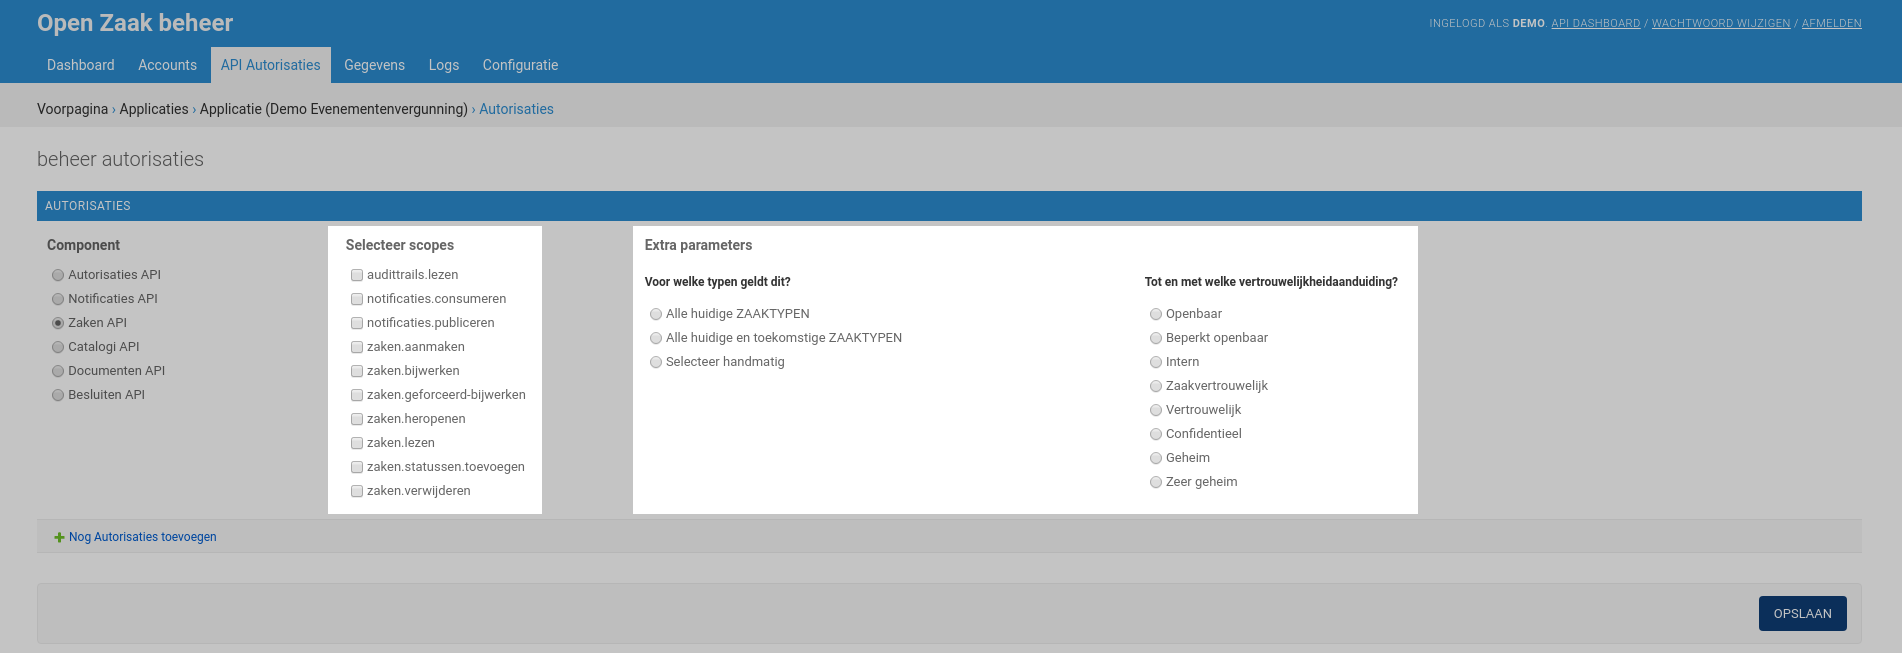
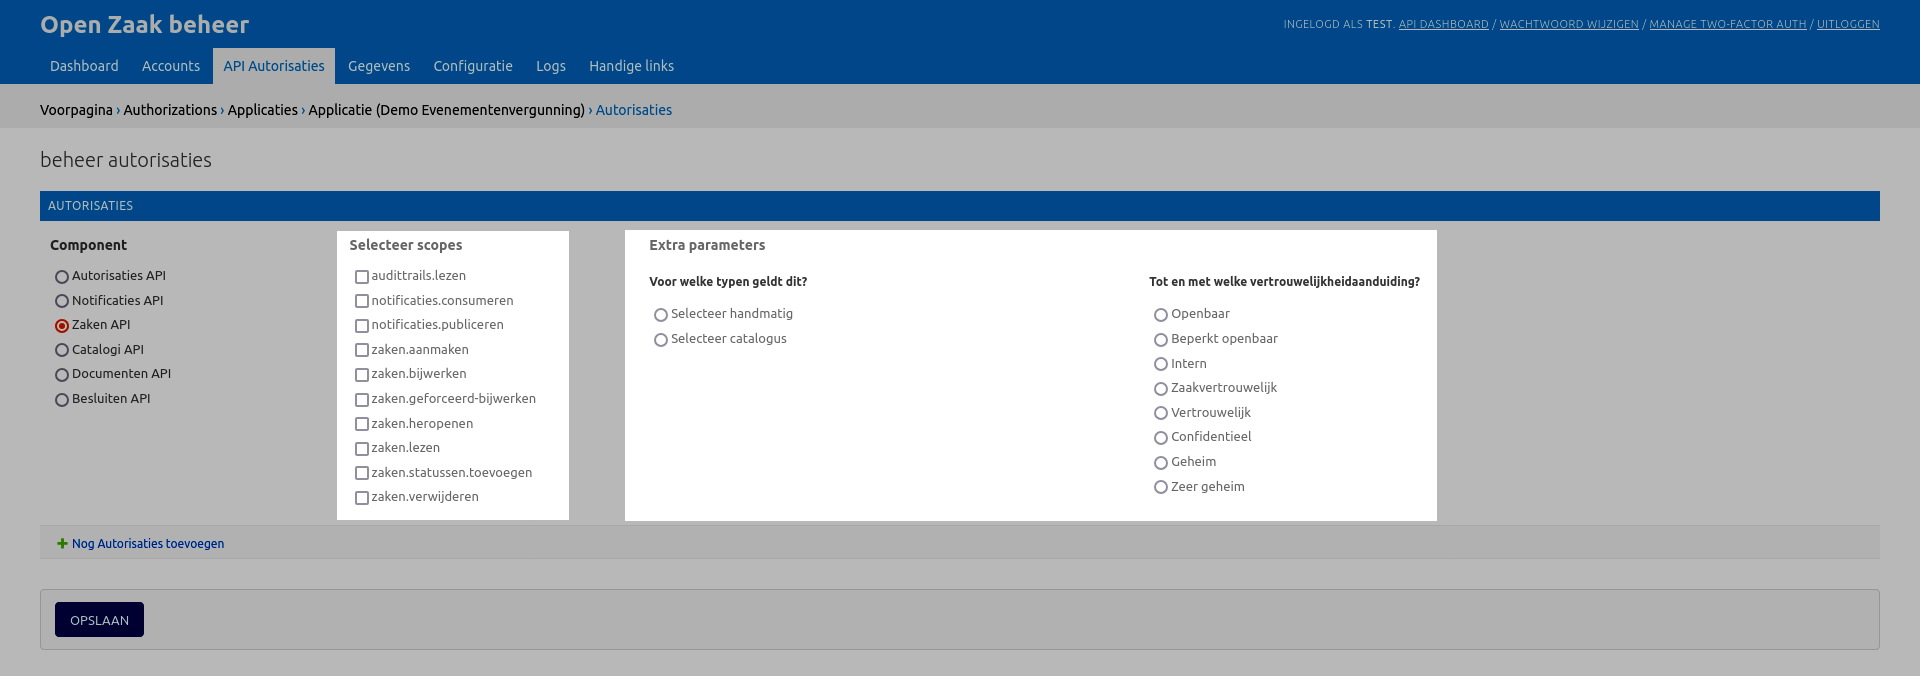
:memo: [#1742] Describe catalogus autorisaties in docs

diff --git a/docs/manual/api-authorizations.rst b/docs/manual/api-authorizations.rst
@@ -110,20 +110,24 @@ Keuze relevante typen
 Voor de *Zaken API*, *Documenten API* en *Besluiten API* worden de autorisaties
 ingericht per *type* - Zaaktype, Informatieobjecttype en Besluittype respectievelijk.
 
-De type-selectie heeft drie mogelijke opties:
-
-Alle huidige \*typen:
-    Dit selecteert alle huidige typen, ook de typen die nog niet gepubliceerd zijn. Voor
-    de *Zaken API* gelden de autorisaties dan voor alle zaaktypen uit alle catalogi in
-    Open Zaak.
-
-Alle huidige en toekomstige \*typen:
-    Dit is dezelfde situatie als ``Alle huidige *typen``, met het verschil dat \*typen
-    die aangemaakt worden *na* het instellen van de autorisaties hier ook binnen vallen.
+De type-selectie heeft twee mogelijke opties:
 
 Selecteer handmatig:
     Bij handmatige selectie worden alle \*typen per catalogus opgelijst. Kies de relevante
     \*typen aan door het vinkje aan te zetten.
+
+Selecteer catalogus:
+    Bij catalogus selectie worden alle catalogi opgelijst. Als er één of meerdere catalogi
+    geselecteerd zijn, heeft deze Autorisatie betrekking op alle \*typen binnen die catalogi
+    (afhankelijk van het geselecteerde component). Dit betekent dat deze Autorisatie dus ook
+    geldig is voor \*typen die later aan deze catalogi toegevoegd worden.
+
+.. warning::
+    Let op: autorisaties op catalogus-niveau zijn **niet** onderdeel van de Autorisaties API
+    standaard, het is een mechanisme in Open Zaak om het instellen van autorisaties te versimpelen.
+
+    Dit betekent dat het aanpassen van de ``Autorisaties`` van een ``Applicatie`` op API niveau (door middel van een PUT/PATCH request)
+    ervoor zorgt dat via de admin ingestelde autorisaties op catalogus-niveau verwijderd worden, om conflicten te voorkomen.
 
 .. image:: assets/auth_app_select_types.png
     :width: 100%
